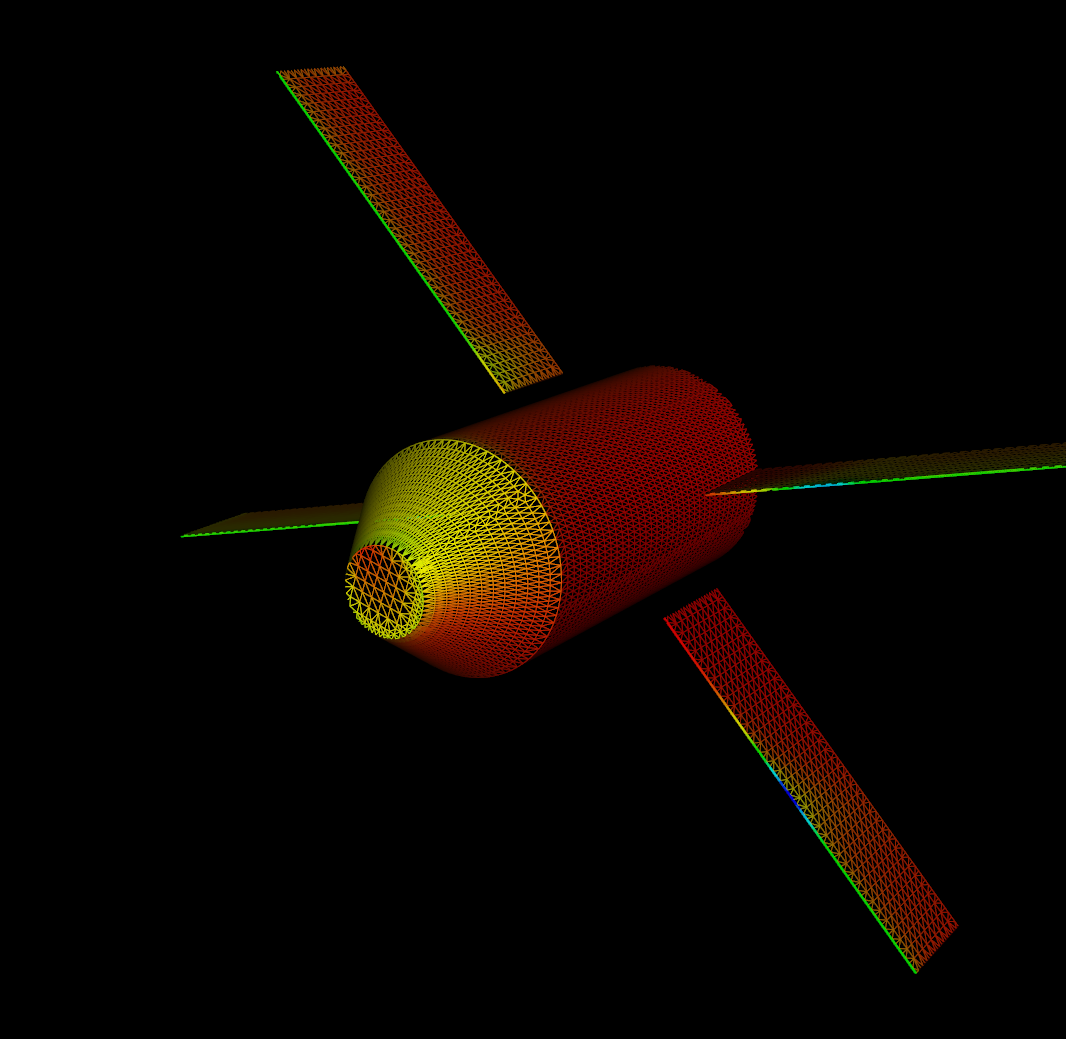
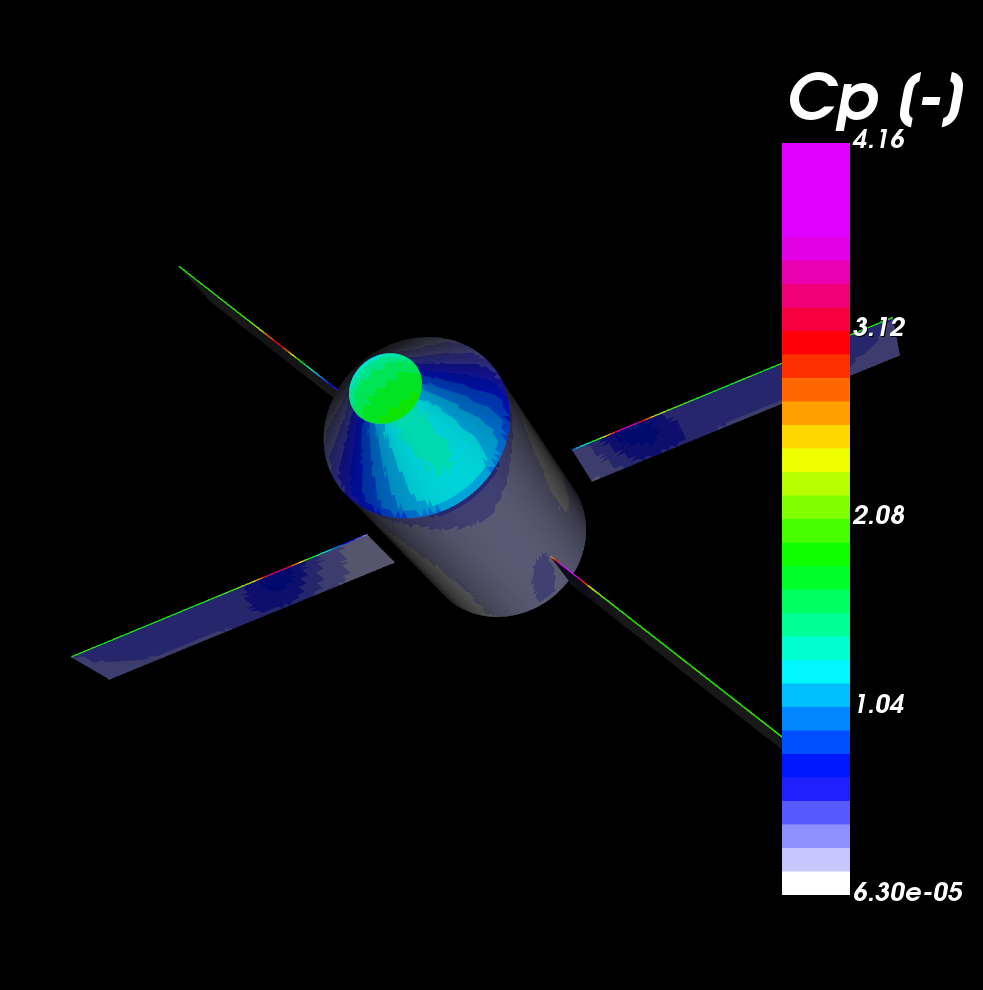
added visualization of the probe location

Changed region(s): [[0.061, 0.0606, 1.0, 0.9394]]

diff --git a/Aggregate/vtkHelper.py b/Aggregate/vtkHelper.py
@@ -302,10 +302,7 @@ def Transform(polyData , args ):
         print("rotation around oz of %s [deg] ..."%(args.rz))
         polyData = ApplyTransformationOnPolyData(polyData, transform)
 
-
-        
     return polyData
-    
     
 def ExtractDataFromTheClosestCellCenter( polyData ,  cvsFilePath) :
     # load df 
@@ -341,11 +338,13 @@ def ExtractDataFromTheClosestCellCenter( polyData ,  cvsFilePath) :
     kDTree.BuildLocatorFromPoints(points)
     # TODO check header variables : existence of x y z 
     ids = []
+    points = []
     for index, row in df.iterrows():
         x = row['x [m]']
         y = row['y [m]']
         z = row['z [m]']
-        points = [x , y , z ]
+        point = [x , y , z ]
+        points.append(point)
         closestPointDist =  vtk.reference(0.0) 
         testPoint = [ x ,y ,z ] 
         id = kDTree.FindClosestPoint(testPoint, closestPointDist)
@@ -370,10 +369,18 @@ def ExtractDataFromTheClosestCellCenter( polyData ,  cvsFilePath) :
     filename = "interpolation.csv"
     df_appened.to_csv(filename ) 
     print("wrote interpolated data info : %s"%filename)
-    
-
-
-    
+        
+    vtkPoints = vtk.vtkPoints()
+    vertices = vtk.vtkCellArray()
+    for i , point in enumerate( points ) :
+        pid = [0]
+        pid[0] = vtkPoints.InsertNextPoint(  point)
+        vertices.InsertNextCell( 1, pid)
+    pointCloud = vtk.vtkPolyData()
+    pointCloud.SetPoints(vtkPoints)
+    pointCloud.SetVerts(vertices)
+    return pointCloud
+        
     
     
         

diff --git a/Aggregate/vtkDisplay.py b/Aggregate/vtkDisplay.py
@@ -117,7 +117,7 @@ def lookUpTable( lutNum , lookupStyle , reverse = False ):
         lut.SetTableValue(ii, cc[0], cc[1], cc[2], 1.0) 
     return lut 
     
-def RenderAndInteracte(polyData , config , VARIABLE ) : 
+def RenderAndInteracte(polyData , config , VARIABLE , pointCloud) : 
     if isVariableInPolyDataCellData(polyData , VARIABLE )  : 
         polyData.GetCellData().SetActiveScalars(VARIABLE)
     # 
@@ -145,6 +145,22 @@ def RenderAndInteracte(polyData , config , VARIABLE ) :
     renWin.AddRenderer(ren)
     iren = vtk.vtkRenderWindowInteractor()
     iren.SetRenderWindow(renWin)
+
+    if not pointCloud == None : 
+        # Renderer
+        mapMesh2 = vtk.vtkDataSetMapper()
+        mapMesh2.SetInputData(pointCloud) 
+        meshActor2 = vtk.vtkActor()
+        meshActor2.SetMapper(mapMesh2)
+        meshActor2.GetProperty().SetPointSize(10)
+        colors = vtk.vtkNamedColors()
+        meshActor2.GetProperty().SetColor(colors.GetColor3d("Tomato"))
+        
+        ren.AddActor(meshActor2)
+        print("append points ")
+    else : 
+        print("not append points ")
+
    
     # Add the actors to the renderer, set the background and size
     ren.AddActor(meshActor)

diff --git a/Aggregate/core.py b/Aggregate/core.py
@@ -219,11 +219,14 @@ def main():
         writer.SetFileTypeToBinary()
         writer.Write()
         
-    if args.openGL_GUI :
-        vtkDisplay.RenderAndInteracte(polyDataConcatenated , config , args.variableToDisplay )
         
     if not args.extractFromCVS == "" :
-        vtkHelper.ExtractDataFromTheClosestCellCenter( polyDataConcatenated ,  args.extractFromCVS)
+        pointCloud = vtkHelper.ExtractDataFromTheClosestCellCenter( polyDataConcatenated ,  args.extractFromCVS)
+    else : 
+        pointCloud = None
+
+    if args.openGL_GUI :
+        vtkDisplay.RenderAndInteracte(polyDataConcatenated , config , args.variableToDisplay , pointCloud)
   
 main()
         

diff --git a/README.md b/README.md
@@ -19,7 +19,7 @@ Python post processing aerodynamic tool based on vtk and pandas that:
 ## TODO
  - Implement and test "reverse_aero_convention". Only alpha=beta=0 has been tested
  - Add test 
- - Finish readme and documentation (transformation, data extraction using a serie of point) 
+ - Finish readme and documentation (data extraction using a serie of point) 
  - fix (reverse)-noAutoOrient
 ## Exemples
 
@@ -46,6 +46,7 @@ plot in : output.png
 
 
 ### Concatenate files
+Data get concatenated only if the same data exist in each file. If not no data is included 
 ```
 python3 Aggregate/core.py -i  data/xcore-F1000-0.vtk data/xpanel*  
 ```
@@ -130,11 +131,12 @@ usage: core.py [-h] -i LIST_INPUT [LIST_INPUT ...] [-f FORCEFORMAT]
                [-alpha ALPHA_DEG] [-beta BETA_DEG] [-cog xcog ycog zcog]
                [-Sref SREF] [-Lref LREF] [-reverse_normal]
                [-reverse_aero_convention] [-autoOrient] [-t tx ty tz]
-               [-r r11 r12 r13 r21 r22 r23 r31 r32 r33] [-v] [-nw]
-               [-glvar VARIABLETODISPLAY] [-gl] [-e EXTRACTFROMCVS]
+               [-r r11 r12 r13 r21 r22 r23 r31 r32 r33] [-rx RX] [-ry RY]
+               [-rz RZ] [-nw] [-glvar VARIABLETODISPLAY] [-gl]
+               [-e EXTRACTFROMCVS] [-v]
 ```
 
-| Arguments | Description | default value | purpose|
+| Arguments | Description | Default value | Purpose|
 | --- | --- | --- | ---| 
 | -i | List of input files. Required|  |  |
 | -Cp | Variable to use as pressure coefficient | | integration |
@@ -146,15 +148,18 @@ usage: core.py [-h] -i LIST_INPUT [LIST_INPUT ...] [-f FORCEFORMAT]
 | -Sref | Surface of reference used to scale all the coefficents:\n Cx, Cy, Cz, Cm,Cl,Cn, ...  | 1 | integration |
 | -alpha | Angle of attack [deg] | 0 | integration |
 | -beta | Angle of side-slip [deg]| 0 | integration |
-| -cog | coordinate of the center of gravity used to compute the moment | 0. ,0. ,0.  | integration |
+| -cog | Coordinate of the center of gravity used to compute the moment | 0. ,0. ,0.  | integration |
 | -noAutoOrient| Do not auto orient the surface of the triangle for every single input file individually (vtk AutoOrientNormalsOn) | disable | integration |
-| -reverse_normal | Revrse the orientation of the normals | disable | integration |
-| -o | base name of the output file: .csv, .xls, .vtk, .png | output | data manipulation |
+| -reverse_normal | Reverse the orientation of the normals | disable | integration |
+| -o | Base name of the output file: .csv, .xls, .vtk, .png | output | data manipulation |
 | -k | List of variable to keep in the output |  | data manipulation |
-| -t | transalate inputs by tx, ty, tz | 0., 0., 0.  | data manipulation |
-| -r | apply matrix on the inputs: [[r11 r12 r13][r21 r22 r23][r31 r32 r33]]| 0., 0., 0., 0., 0., 0. 0., 0., 0. | data manipulation |
-| -gl | display data | disable  | visualization |
-| -glvar | variable to display |   | visualization |
+| -t | Translate inputs by tx, ty, tz | 0., 0., 0.  | data manipulation |
+| -r | Apply matrix on the inputs: [[r11 r12 r13][r21 r22 r23][r31 r32 r33]]| 1., 0., 0., 0., 1., 0., 0., 0., 1. | data manipulation |
+| -rx | Rotate around ox with angle rx [deg] | 0. | data manipulation |
+| -ry | Rotate around oy with angle ry [deg] | 0. | data manipulation |
+| -rz | Rotate around oz with angle rz [deg] | 0. | data manipulation |
+| -gl | Display data | disable  | visualization |
+| -glvar | Variable to display |   | visualization |
 
 
 
